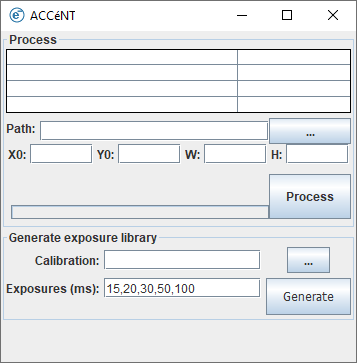
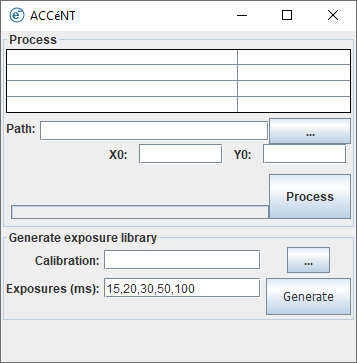
removed w and h from gui

diff --git a/accent-mm2/src/main/java/de/embl/rieslab/accent/mm2/ui/ProcPanel.java b/accent-mm2/src/main/java/de/embl/rieslab/accent/mm2/ui/ProcPanel.java
@@ -41,8 +41,6 @@ public class ProcPanel extends JPanel implements ProcessorPanelInterface {
 	private JToggleButton processButton;
 	private JTextField tfX0;
 	private JTextField tfY0;
-	private JTextField tfW;
-	private JTextField tfH;
 	
 	private final static String START = "Process";
 	private final static String STOP = "Stop";
@@ -84,63 +82,43 @@ public class ProcPanel extends JPanel implements ProcessorPanelInterface {
 		
 		
 		JPanel roipane = new JPanel(new GridBagLayout());
-		JLabel x0 = new JLabel("X0:");
 		GridBagConstraints gbc_roi = new GridBagConstraints();
-		gbc_roi.insets = new Insets(0, 2, 5, 2);
-		gbc_roi.fill = GridBagConstraints.NONE;
+		gbc_roi.fill = GridBagConstraints.HORIZONTAL;
 		gbc_roi.gridx = 0;
 		gbc_roi.gridy = 0;
+		gbc_roi.weightx = 0.6;
+		gbc_roi.gridwidth = 2;
+		roipane.add(new JLabel(""), gbc_roi);
+		
+		JLabel x0 = new JLabel("X0:");
+		gbc_roi.insets = new Insets(0, 2, 5, 2);
+		gbc_roi.fill = GridBagConstraints.NONE;
+		gbc_roi.gridx = 2;
+		gbc_roi.gridy = 0;
 		gbc_roi.gridwidth = 1;
+		gbc_roi.weightx = 0.1;
 		roipane.add(x0, gbc_roi);
 		
 		tfX0 = new JTextField(" ");
 		gbc_roi.fill = GridBagConstraints.HORIZONTAL;
-		gbc_roi.gridx = 1;
-		gbc_roi.gridwidth = 2;
+		gbc_roi.gridx = 3;
+		gbc_roi.gridwidth = 1;
 		gbc_roi.weightx = 0.5;
 		roipane.add(tfX0, gbc_roi);
 		
 		JLabel y0 = new JLabel("Y0:");
 		gbc_roi.fill = GridBagConstraints.NONE;
-		gbc_roi.gridx = 3;
+		gbc_roi.gridx = 5;
 		gbc_roi.gridwidth = 1;
-		gbc_roi.weightx = 0;
+		gbc_roi.weightx = 0.1;
 		roipane.add(y0, gbc_roi);
 
 		tfY0 = new JTextField(" ");
 		gbc_roi.fill = GridBagConstraints.HORIZONTAL;
-		gbc_roi.gridx = 4;
+		gbc_roi.gridx = 6;
 		gbc_roi.gridwidth = 2;
 		gbc_roi.weightx = 0.5;
 		roipane.add(tfY0, gbc_roi);
-
-		JLabel w = new JLabel("W:");
-		gbc_roi.fill = GridBagConstraints.NONE;
-		gbc_roi.gridx = 6;
-		gbc_roi.gridwidth = 1;
-		gbc_roi.weightx = 0;
-		roipane.add(w, gbc_roi);
-
-		tfW = new JTextField(" ");
-		gbc_roi.fill = GridBagConstraints.HORIZONTAL;
-		gbc_roi.gridx = 7;
-		gbc_roi.gridwidth = 2;
-		gbc_roi.weightx = 0.5;
-		roipane.add(tfW, gbc_roi);
-
-		JLabel h = new JLabel("H:");
-		gbc_roi.fill = GridBagConstraints.NONE;
-		gbc_roi.gridx = 9;
-		gbc_roi.gridwidth = 1;
-		gbc_roi.weightx = 0;
-		roipane.add(h, gbc_roi);
-
-		tfH = new JTextField(" ");
-		gbc_roi.fill = GridBagConstraints.HORIZONTAL;
-		gbc_roi.gridx = 10;
-		gbc_roi.gridwidth = 2;
-		gbc_roi.weightx = 0.5;
-		roipane.add(tfH, gbc_roi);
 		
 		gbcMain.insets = new Insets(0, 0, 0, 0);
 		gbcMain.fill = GridBagConstraints.HORIZONTAL;
@@ -278,27 +256,15 @@ public class ProcPanel extends JPanel implements ProcessorPanelInterface {
 	private SimpleRoi getRoi() {
 		String s_x0 = tfX0.getText();
 		String s_y0 = tfY0.getText();
-		String s_w = tfW.getText();
-		String s_h = tfH.getText();
-		
-		// if negative w,h then ultimately the calibration will consider 
+
+		// if negative w,h then ultimately the calibration will consider
 		// the roi width/height from the images themselves
-		if(AccentUtils.isInteger(s_x0) &&
-				AccentUtils.isInteger(s_y0) &&
-				AccentUtils.isInteger(s_w) &&
-				AccentUtils.isInteger(s_h)) {
-			int w  = Integer.parseInt(s_w);
-			int h  = Integer.parseInt(s_h);
-			
-			if(w > 0 && h > 0) { // prevents exception throwing in SimpleRoi
-				SimpleRoi roi = new SimpleRoi(Integer.parseInt(s_x0),
-						Integer.parseInt(s_y0), w, h);
-				return roi;
-			} else {
-				return new SimpleRoi(0,0,0,0);
-			}
+		if (AccentUtils.isInteger(s_x0) && AccentUtils.isInteger(s_y0)) {
+
+			SimpleRoi roi = new SimpleRoi(Integer.parseInt(s_x0), Integer.parseInt(s_y0), 0, 0);
+			return roi;
 		} else {
-			return new SimpleRoi(0,0,0,0);
+			return new SimpleRoi(0, 0, 0, 0);
 		}
 	}
 	
@@ -315,8 +281,6 @@ public class ProcPanel extends JPanel implements ProcessorPanelInterface {
 		if(roi != null) {
 			tfX0.setText(String.valueOf(roi.x0));
 			tfY0.setText(String.valueOf(roi.y0));
-			tfW.setText(String.valueOf(roi.width));
-			tfH.setText(String.valueOf(roi.height));
 		}
 	}
 

diff --git a/accent-fiji/src/main/java/de/embl/rieslab/accent/fiji/ui/TableProcPanel.java b/accent-fiji/src/main/java/de/embl/rieslab/accent/fiji/ui/TableProcPanel.java
@@ -56,8 +56,6 @@ public class TableProcPanel extends JPanel implements ProcessorPanelInterface  {
 	private JTextField textFieldPath;
 	private JTextField tfX0;
 	private JTextField tfY0;
-	private JTextField tfW;
-	private JTextField tfH;
 	private JButton button;
 	private JLabel lblNewLabel;
 	
@@ -158,63 +156,43 @@ public class TableProcPanel extends JPanel implements ProcessorPanelInterface  {
 		});
 		
 		JPanel roipane = new JPanel(new GridBagLayout());
-		JLabel x0 = new JLabel("X0:");
 		GridBagConstraints gbc_roi = new GridBagConstraints();
-		gbc_roi.insets = new Insets(0, 2, 5, 2);
-		gbc_roi.fill = GridBagConstraints.NONE;
+		gbc_roi.fill = GridBagConstraints.HORIZONTAL;
 		gbc_roi.gridx = 0;
 		gbc_roi.gridy = 0;
+		gbc_roi.weightx = 0.6;
+		gbc_roi.gridwidth = 2;
+		roipane.add(new JLabel(""), gbc_roi);
+		
+		JLabel x0 = new JLabel("X0:");
+		gbc_roi.insets = new Insets(0, 2, 5, 2);
+		gbc_roi.fill = GridBagConstraints.NONE;
+		gbc_roi.gridx = 2;
+		gbc_roi.gridy = 0;
 		gbc_roi.gridwidth = 1;
+		gbc_roi.weightx = 0.1;
 		roipane.add(x0, gbc_roi);
 		
 		tfX0 = new JTextField(" ");
 		gbc_roi.fill = GridBagConstraints.HORIZONTAL;
-		gbc_roi.gridx = 1;
-		gbc_roi.gridwidth = 2;
+		gbc_roi.gridx = 3;
+		gbc_roi.gridwidth = 1;
 		gbc_roi.weightx = 0.5;
 		roipane.add(tfX0, gbc_roi);
 		
 		JLabel y0 = new JLabel("Y0:");
 		gbc_roi.fill = GridBagConstraints.NONE;
-		gbc_roi.gridx = 3;
+		gbc_roi.gridx = 5;
 		gbc_roi.gridwidth = 1;
-		gbc_roi.weightx = 0;
+		gbc_roi.weightx = 0.1;
 		roipane.add(y0, gbc_roi);
 
 		tfY0 = new JTextField(" ");
 		gbc_roi.fill = GridBagConstraints.HORIZONTAL;
-		gbc_roi.gridx = 4;
+		gbc_roi.gridx = 6;
 		gbc_roi.gridwidth = 2;
 		gbc_roi.weightx = 0.5;
 		roipane.add(tfY0, gbc_roi);
-
-		JLabel w = new JLabel("W:");
-		gbc_roi.fill = GridBagConstraints.NONE;
-		gbc_roi.gridx = 6;
-		gbc_roi.gridwidth = 1;
-		gbc_roi.weightx = 0;
-		roipane.add(w, gbc_roi);
-
-		tfW = new JTextField(" ");
-		gbc_roi.fill = GridBagConstraints.HORIZONTAL;
-		gbc_roi.gridx = 7;
-		gbc_roi.gridwidth = 2;
-		gbc_roi.weightx = 0.5;
-		roipane.add(tfW, gbc_roi);
-
-		JLabel h = new JLabel("H:");
-		gbc_roi.fill = GridBagConstraints.NONE;
-		gbc_roi.gridx = 9;
-		gbc_roi.gridwidth = 1;
-		gbc_roi.weightx = 0;
-		roipane.add(h, gbc_roi);
-
-		tfH = new JTextField(" ");
-		gbc_roi.fill = GridBagConstraints.HORIZONTAL;
-		gbc_roi.gridx = 10;
-		gbc_roi.gridwidth = 2;
-		gbc_roi.weightx = 0.5;
-		roipane.add(tfH, gbc_roi);
 		
 		gbcMain.insets = new Insets(0, 0, 0, 0);
 		gbcMain.fill = GridBagConstraints.HORIZONTAL;
@@ -446,27 +424,15 @@ public class TableProcPanel extends JPanel implements ProcessorPanelInterface  {
 	private SimpleRoi getRoi() {
 		String s_x0 = tfX0.getText();
 		String s_y0 = tfY0.getText();
-		String s_w = tfW.getText();
-		String s_h = tfH.getText();
-		
-		// if negative w,h then ultimately the calibration will consider 
+
+		// if negative w,h then ultimately the calibration will consider
 		// the roi width/height from the images themselves
-		if(AccentUtils.isInteger(s_x0) &&
-				AccentUtils.isInteger(s_y0) &&
-				AccentUtils.isInteger(s_w) &&
-				AccentUtils.isInteger(s_h)) {
-			int w  = Integer.parseInt(s_w);
-			int h  = Integer.parseInt(s_h);
-			
-			if(w > 0 && h > 0) { // prevents exception throwing in SimpleRoi
-				SimpleRoi roi = new SimpleRoi(Integer.parseInt(s_x0),
-						Integer.parseInt(s_y0), w, h);
-				return roi;
-			} else {
-				return new SimpleRoi(0,0,0,0);
-			}
+		if (AccentUtils.isInteger(s_x0) && AccentUtils.isInteger(s_y0)) {
+
+			SimpleRoi roi = new SimpleRoi(Integer.parseInt(s_x0), Integer.parseInt(s_y0), 0, 0);
+			return roi;
 		} else {
-			return new SimpleRoi(0,0,0,0);
+			return new SimpleRoi(0, 0, 0, 0);
 		}
 	}
 	
@@ -483,8 +449,6 @@ public class TableProcPanel extends JPanel implements ProcessorPanelInterface  {
 		if(roi != null) {
 			tfX0.setText(String.valueOf(roi.x0));
 			tfY0.setText(String.valueOf(roi.y0));
-			tfW.setText(String.valueOf(roi.width));
-			tfH.setText(String.valueOf(roi.height));
 		}
 	}
 	

diff --git a/guide/guide-mm2.md b/guide/guide-mm2.md
@@ -63,7 +63,7 @@ Once all the parameters have been set, the different exposures can be acquired b
 
 ## Processing
 
-The processing can be run in parallel to the acquisition or separately. It does not require any parameters but the folder where the images have been saved and the roi. The roi.roi file created at the start of an acquisition is automatically loaded. However, if the file was lost, users can set the roi manually. The processor produces multiple files:
+The processing can be run in parallel to the acquisition or separately. It does not require any parameters but the folder where the images have been saved and the roi. The roi.roi file created at the start of an acquisition is automatically loaded. However, if the file was lost, users can set the roi X and Yd manually. The processor produces multiple files:
 
 - Average and variance images for all processed exposures.
 - The maps for the gain, baseline, dark current per second, the square read-noise, the square thermal noise per second and the coefficient of determination for the gain, average and variance fits.
@@ -77,9 +77,8 @@ The processing can be run in parallel to the acquisition or separately. It does 
 
 - **Folder naming convention**: the acquisition folders must contain the **exposure time followed by "ms" at the end of their name**.
 
-- **Roi width and height**: they are purely indicative and are in effect not used. Roi width and height are extracted from the calibration images themselves.
-
   
+
 
 ## Generation
 

diff --git a/guide/guide-fiji.md b/guide/guide-fiji.md
@@ -28,7 +28,7 @@ We tested the the pipeline with the following types:
 
 We recommend taking **at least 15'000 frames** with **at least 2 different exposures spanning a wide range** (e.g. 10, 300, 1000).
 
-Processing requires few parameters: the folder where the images have been saved and the roi. If the images where acquired with the Micro-Manager 2 plugin, the Fiji plugin will automatically load the roi.roi file created during acquisition. If it doesn't find the roi file, then manual input is necessary. Note that the width and height are actually not used since they are extracted from the images themselves. The processor produces multiple files:
+Processing requires few parameters: the folder where the images have been saved and the roi. If the images where acquired with the Micro-Manager 2 plugin, the Fiji plugin will automatically load the roi.roi file created during acquisition. If it doesn't find the roi file, then manual input of the x and y positions is necessary. The processor produces multiple files:
 
 - Average and variance images for all processed exposures.
 - The maps for the gain, baseline, dark current per second, the square read-noise, the square thermal noise per second and the coefficient of determination for the gain, average and variance fits.
